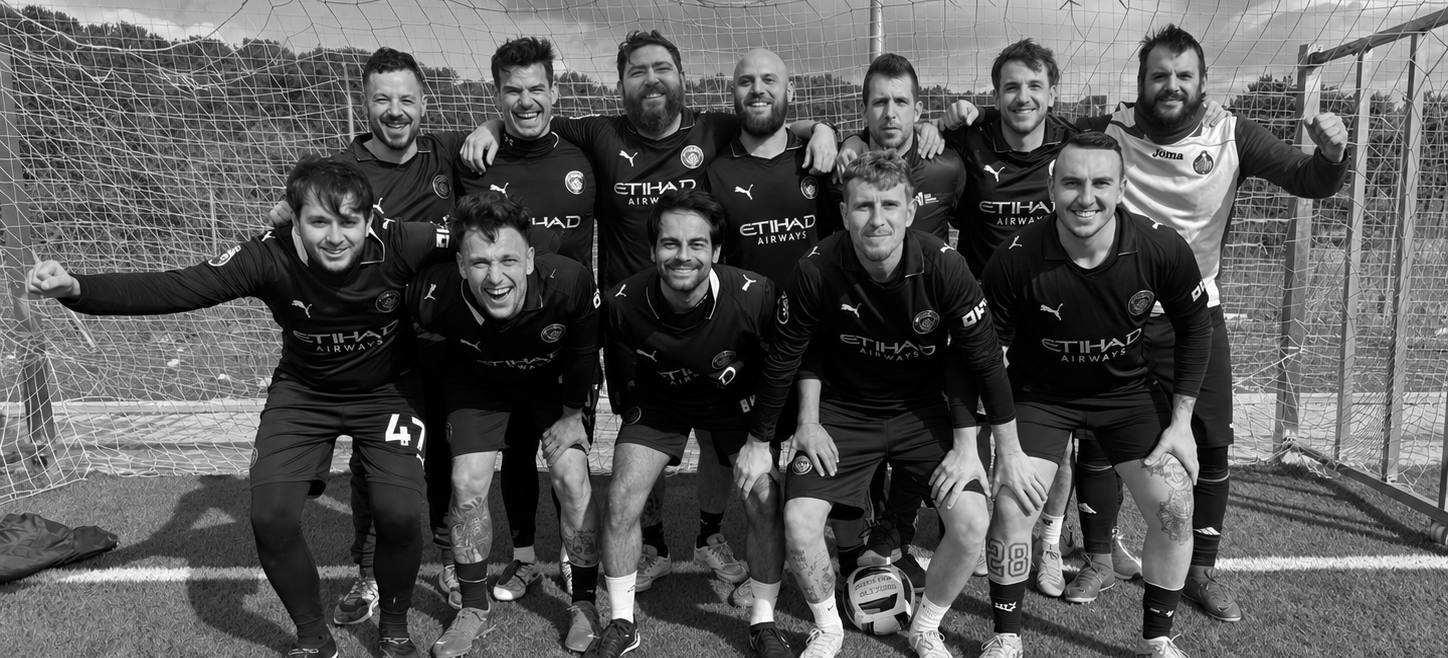
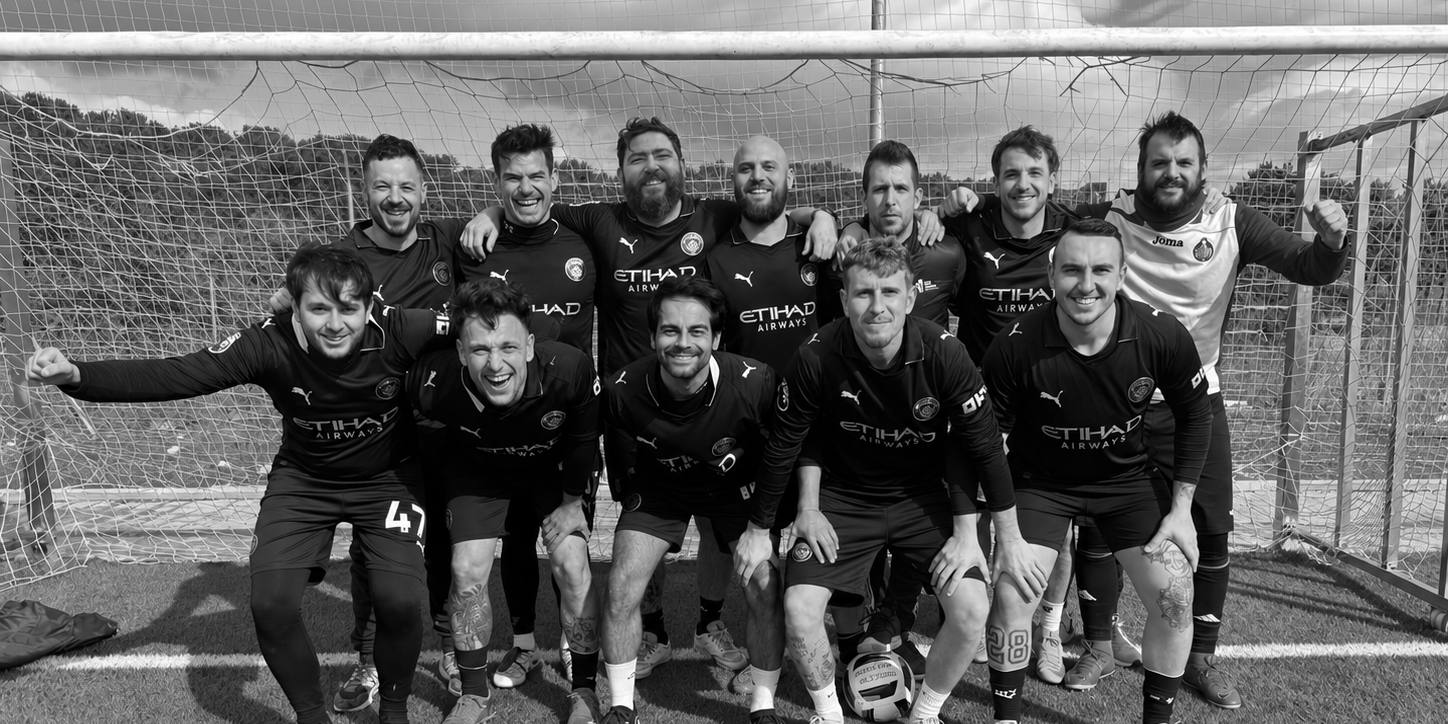
Foto de cabecera a lo ancho y pegada arriba: sin cortar laterales ni cabezas

diff --git a/estilos.css b/estilos.css
@@ -33,10 +33,12 @@ a { color: var(--accent); }
 .hero { position: relative; overflow: hidden; }
 .hero::before {
   content: ""; position: absolute; inset: 0;
-  background: url("foto-equipo.jpg") center 30% / cover no-repeat;
+  /* Siempre a lo ancho y pegada arriba: no se cortan ni laterales ni cabezas */
+  background: url("foto-equipo.jpg") center top / 100% auto no-repeat;
   opacity: .2;
-  -webkit-mask-image: linear-gradient(to bottom, #000 55%, transparent);
-          mask-image: linear-gradient(to bottom, #000 55%, transparent);
+  /* La foto mide la mitad de alto que de ancho (50vw): se difumina antes de acabar */
+  -webkit-mask-image: linear-gradient(to bottom, #000 calc(min(50vw, 100%) * .55), transparent min(50vw, 100%));
+          mask-image: linear-gradient(to bottom, #000 calc(min(50vw, 100%) * .55), transparent min(50vw, 100%));
 }
 .hero > .wrap { position: relative; }
 .hero-grid { display: flex; align-items: center; gap: 32px; }
